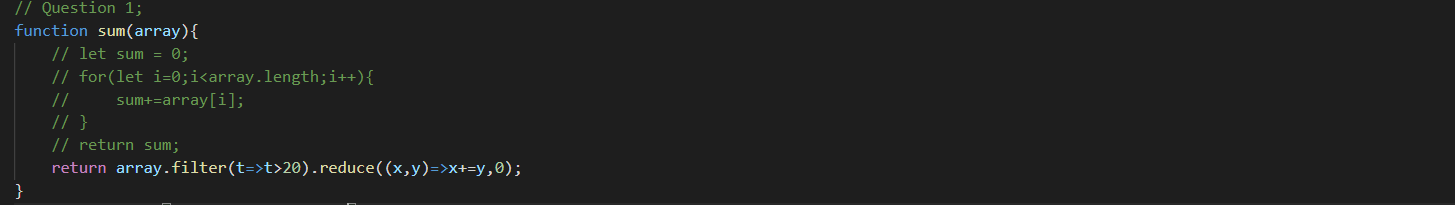
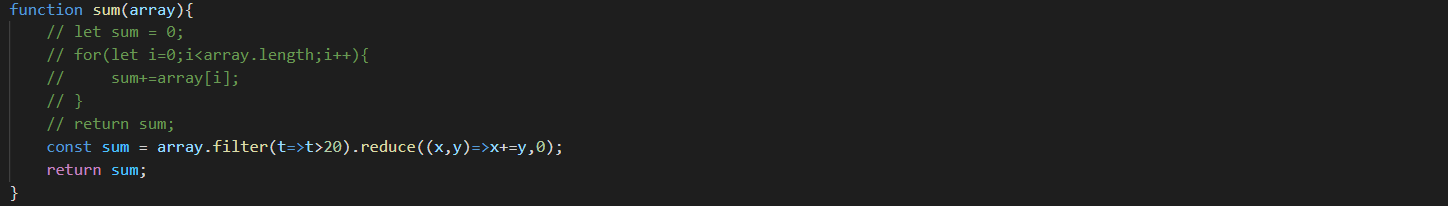
correction

diff --git a/lab5/app.js b/lab5/app.js
@@ -5,7 +5,8 @@ function sum(array){
     //     sum+=array[i];
     // }
     // return sum;
-    return array.filter(t=>t>20).reduce((x,y)=>x+=y,0);
+    const sum = array.filter(t=>t>20).reduce((x,y)=>x+=y,0); 
+    return sum;
 }
 console.log(sum([1,2,3,4,20,25,45,90]));
 console.log(sum([1,2]));
@@ -19,7 +20,8 @@ function getNewArray(array2){
     //     }
     // }
     // return array3;
-    return array2.filter(t=>t.length>5 && t.includes("a"));
+    const newArray = array2.filter(t=>t.length>5 && t.includes("a"));
+    return newArray;
 }
 let xx = ["abebebe","abebe","ab","dfgfgr"];
 console.log(getNewArray(xx))

diff --git a/Practice/app.js b/Practice/app.js
@@ -1,0 +1,12 @@
+function shortest(x,y,z){
+        let array = [x,y,z];
+        let final =array[0];
+        for(let i=0;i<array.length;i++){
+            if(array[i].length<final.length){
+               final= array[i];
+            }
+        }
+    return final;
+    }
+console.log(shortest("zz", "z", "bye"));
+

diff --git a/Practice/index.html b/Practice/index.html
@@ -1,0 +1,13 @@
+<!DOCTYPE html>
+<html lang="en">
+<head>
+    <meta charset="UTF-8">
+    <meta http-equiv="X-UA-Compatible" content="IE=edge">
+    <meta name="viewport" content="width=device-width, initial-scale=1.0">
+    <title>Document</title>
+    <script src="./app.js"></script>
+</head>
+<body>
+    
+</body>
+</html>
